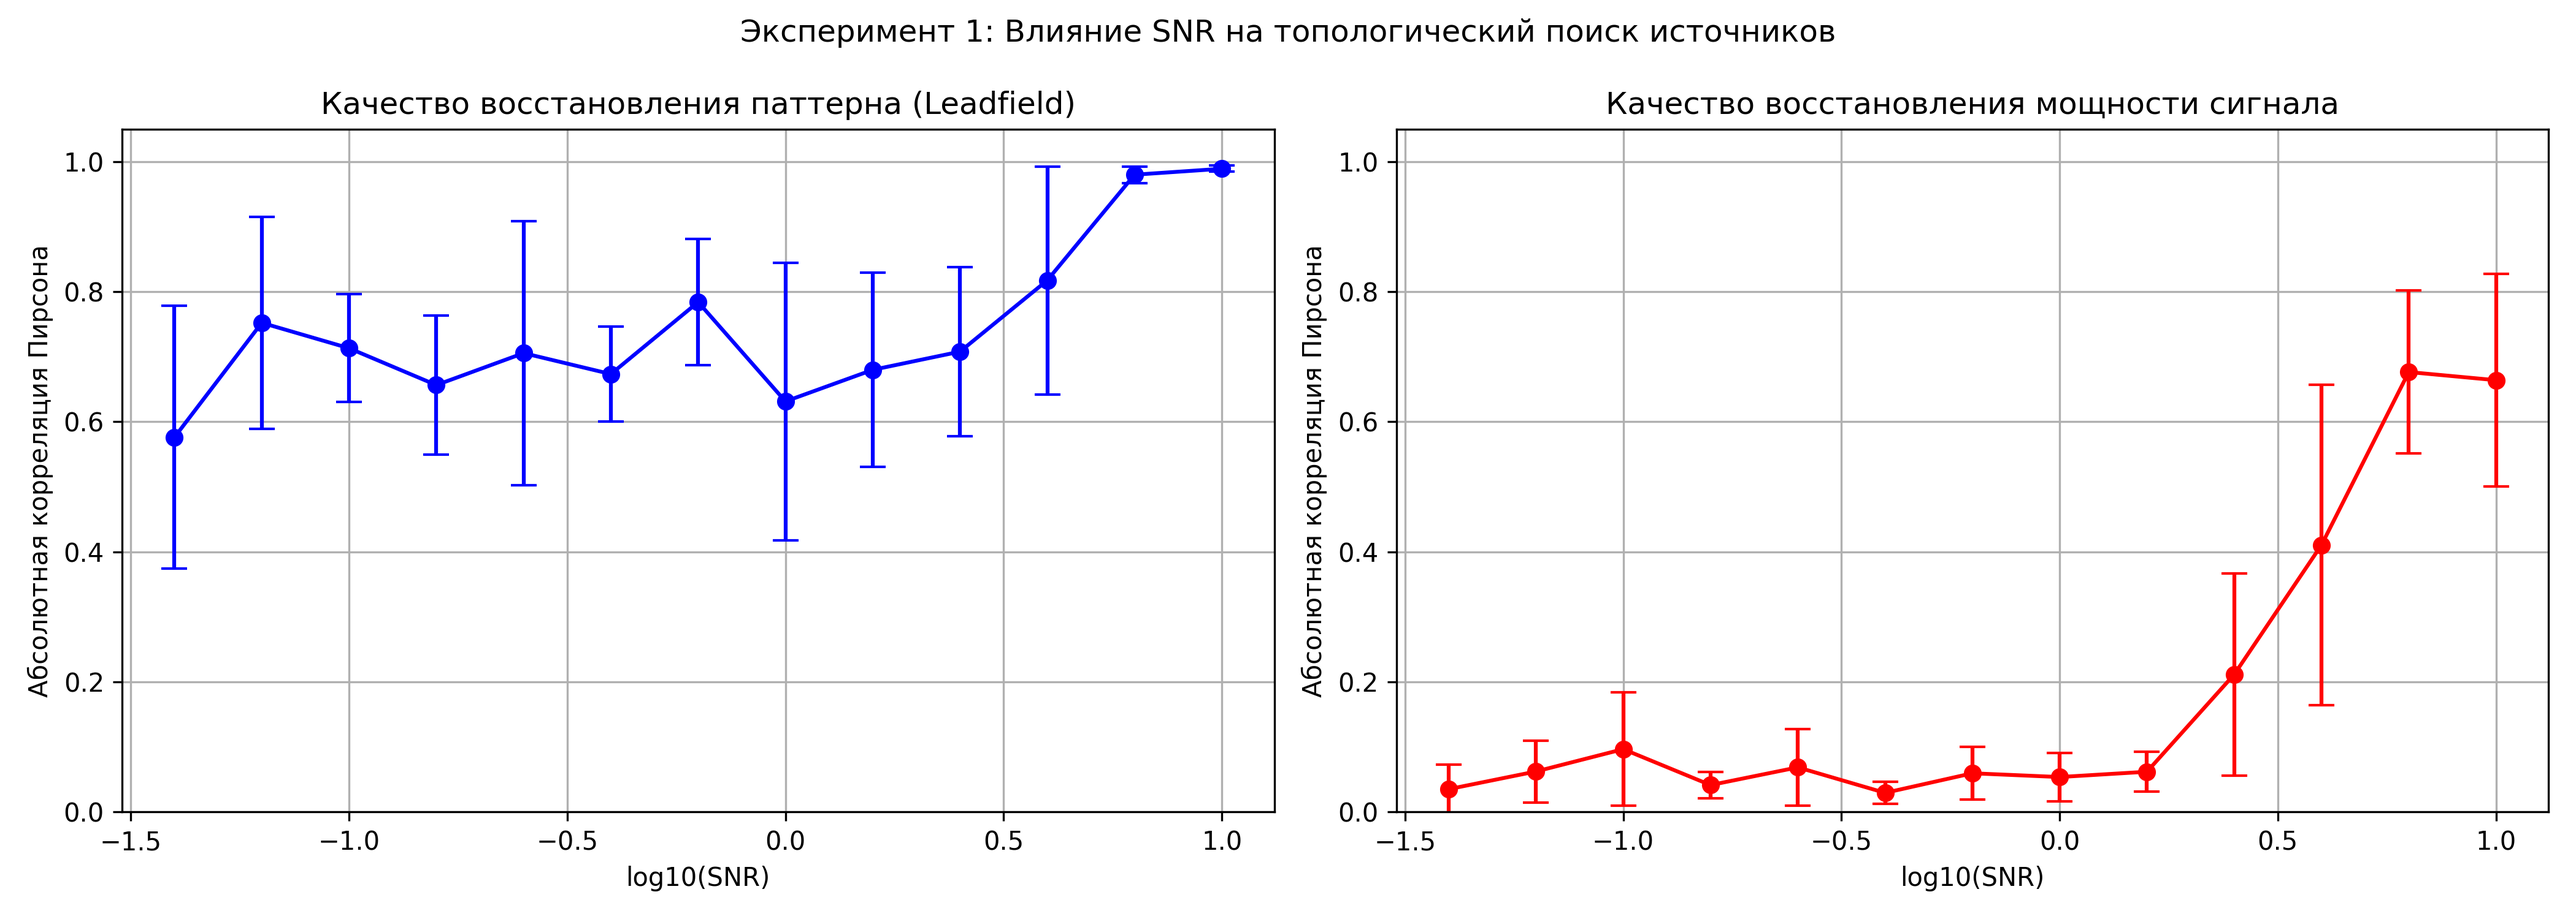
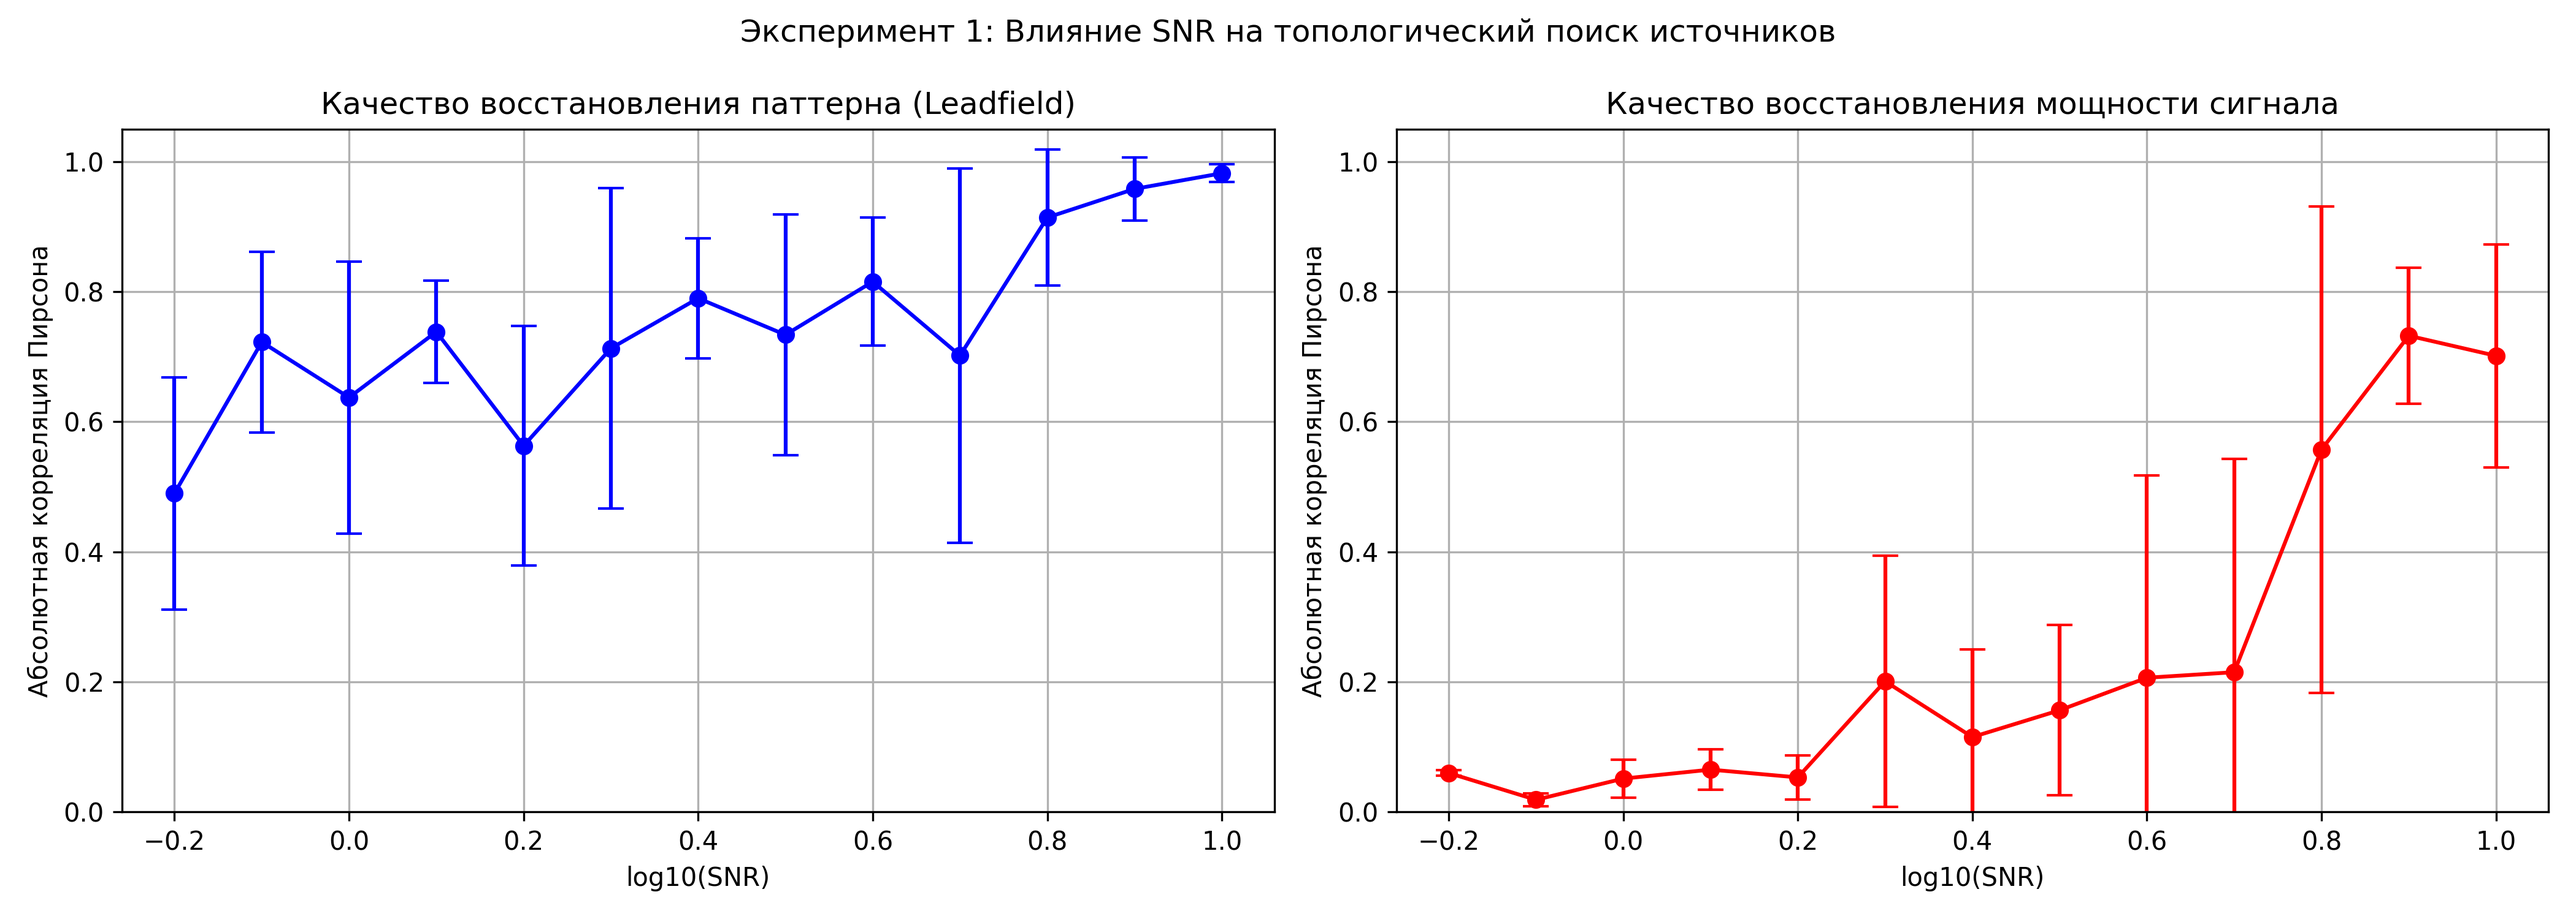
Add ICA baseline and compare to TSF in SNR experiment
Introduce a FastICA baseline to the SNR experiment (exp_snr.py): compute pattern and power correlations for ICA components, aggregate metrics, and plot TSF vs ICA across SNR values. Reorganized imports, added UTF-8 header, removed duplicate sys/os inserts, introduced Ndim variable, and refactored epoch-based true-power computation. Output filename changed to exp1_snr_results_with_ica.png. Also updated the example results image. Enhances benchmarking and visualization of the topological filter against a standard ICA baseline.

diff --git a/examples/meeg_examples/simulations/exp_snr.py b/examples/meeg_examples/simulations/exp_snr.py
@@ -1,7 +1,8 @@
-import os
+# -*- coding: utf-8 -*-
 import sys
-import numpy as np
+import os
 import mne
+import numpy as np
 import matplotlib.pyplot as plt
 from scipy.linalg import null_space
 
@@ -14,8 +15,6 @@ repo_root = os.path.abspath(os.path.join(work_dir, "..", "..", ".."))
 if repo_root not in sys.path:
     sys.path.insert(0, repo_root)
 
-import sys
-import os
 lib_directory = os.path.abspath("C:/Users/ansbel/Documents/GitHub/pyRiemann") 
 if lib_directory not in sys.path:
     sys.path.insert(0, lib_directory)
@@ -30,7 +29,7 @@ def run_snr_experiment():
     """
     Эксперимент 1: Оценка качества восстановления (по паттерну и мощности)
     при различных уровнях отношения сигнал/шум (SNR).
-    Используется метод Монте-Карло для усреднения результатов.
+    Сравнение Topological Spatial Filter (TSF) и FastICA.
     """
     print("Начинаем эксперимент по исследованию влияния SNR...")
 
@@ -51,7 +50,7 @@ def run_snr_experiment():
     gamma = 0.1          # Фиксированный уровень сенсорного шума
 
     # ПАРАМЕТРЫ ЭКСПЕРИМЕНТА
-    snr_logs = np.arange(-0.2, 1.01, 0.1)  # десятичный логарифм SNR от -1.4 до 1.0
+    snr_logs = np.arange(-0.2, 1.01, 0.1)  # десятичный логарифм SNR от -0.2 до 1.0
     n_mc_iterations = 5  # количество итераций Монте-Карло
 
     # Для эпохирования
@@ -59,11 +58,17 @@ def run_snr_experiment():
     Ssize = 0.5
     overlap = Wsize - Ssize
 
-    # Сохранение результатов
+    # Сохранение результатов для TSF (вашего метода)
     mean_pattern_corr = []
     std_pattern_corr = []
     mean_power_corr = []
     std_power_corr = []
+
+    # Сохранение результатов для ICA
+    mean_ica_pattern_corr = []
+    std_ica_pattern_corr = []
+    mean_ica_power_corr = []
+    std_ica_power_corr = []
 
     for snr_log in snr_logs:
         current_snr = 10 ** snr_log
@@ -71,6 +76,9 @@ def run_snr_experiment():
 
         iter_pattern_corrs = []
         iter_power_corrs = []
+        
+        iter_ica_pattern_corrs = []
+        iter_ica_power_corrs = []
 
         for iteration in range(n_mc_iterations):
             print(f"  Итерация {iteration + 1}/{n_mc_iterations}...")
@@ -90,52 +98,15 @@ def run_snr_experiment():
             )
             epochs_data = epochs.get_data(copy=False)
 
-            # Ковариационные матрицы
-            covmats = Covariances(estimator='oas').fit_transform(epochs_data)
-
-            # Расстояния и UMAP топология
-            dist_matrix = pairwise_distance(covmats, metric='riemann')
-
-            # Обучение фильтров (ищем 3D компоненты)
-            w_opt, _, final_losses, _, _ = fit_filters(
-                C=covmats,
-                D_matrix=dist_matrix,
-                N_dim=2,                # Вложение в 3D
-                K_restarts=1,
-                n_neighbors=30,
-                epochs=300,             # Можно уменьшить для скорости, но лучше оставить 300-500
-                lr=0.05,
-                verbose=False
-            )
-
-            w_found_3d = w_opt[0] # Размер (3, N_channels)
-
-            # Находим паттерны для этих трех компонент
-            # a = E[C] * w
-            mean_C = np.mean(covmats, axis=0)
-            patterns_found = []
-            power_found = []
-
-            for d in range(3):
-                w_d = w_found_3d[d, :]
-                a_d = mean_C @ w_d
-                patterns_found.append(a_d)
-
-                # Считаем мощность
-                p_d = np.zeros(covmats.shape[0])
-                for i in range(covmats.shape[0]):
-                    p_d[i] = np.log(w_d.T @ covmats[i] @ w_d)
-                power_found.append(p_d)
-
-            # Истинный паттерн и мощность целевого источника
+            # =================================================================
+            # БАЗОВАЯ ИСТИНА (GROUND TRUTH)
+            # =================================================================
             true_pattern = GA[:, 0]
             true_z = z[0, :]
 
-            # Усреднение истинной мощности (z) по эпохам
             n_epochs_mne = len(epochs)
-            sfreq = info['sfreq']
-            n_samples_window = int(Wsize * sfreq)
-            n_samples_step = int(Ssize * sfreq)
+            n_samples_window = int(Wsize * Fs)
+            n_samples_step = int(Ssize * Fs)
 
             p_true_epochs = np.zeros(n_epochs_mne)
             for i in range(n_epochs_mne):
@@ -143,14 +114,44 @@ def run_snr_experiment():
                 end = start + n_samples_window
                 p_true_epochs[i] = np.mean(true_z[start:end])
 
-            # Находим компоненту с лучшей абсолютной корреляцией паттерна
+
+            # =================================================================
+            # 1. TOPOLOGICAL SPATIAL FILTER (ВАШ МЕТОД)
+            # =================================================================
+            covmats = Covariances(estimator='oas').fit_transform(epochs_data)
+            dist_matrix = pairwise_distance(covmats, metric='riemann')
+
+            Ndim = 2
+            w_opt, _, final_losses, _, _ = fit_filters(
+                C=covmats,
+                D_matrix=dist_matrix,
+                N_dim=Ndim,                
+                K_restarts=1,
+                n_neighbors=30,
+                epochs=300,             
+                lr=0.05,
+                verbose=False
+            )
+
+            w_found_3d = w_opt[0]
+            mean_C = np.mean(covmats, axis=0)
+            patterns_found = []
+            power_found = []
+
+            for d in range(Ndim):
+                w_d = w_found_3d[d, :]
+                patterns_found.append(mean_C @ w_d)
+                
+                p_d = np.zeros(covmats.shape[0])
+                for i in range(covmats.shape[0]):
+                    p_d[i] = np.log(w_d.T @ covmats[i] @ w_d)
+                power_found.append(p_d)
+
             best_pattern_corr = 0
             best_power_corr = 0
 
-            for d in range(3):
-                # Корреляция паттерна
+            for d in range(Ndim):
                 patt_corr = np.abs(np.corrcoef(patterns_found[d], true_pattern)[0, 1])
-                # Корреляция мощности
                 pow_corr = np.abs(np.corrcoef(power_found[d], p_true_epochs)[0, 1])
 
                 if patt_corr > best_pattern_corr:
@@ -160,32 +161,84 @@ def run_snr_experiment():
             iter_pattern_corrs.append(best_pattern_corr)
             iter_power_corrs.append(best_power_corr)
 
+            # =================================================================
+            # 2. ICA BASELINE (ФОНОВОЕ СРАВНЕНИЕ)
+            # =================================================================
+            # Ищем 15 компонент, чтобы не перегружать вычисления, но захватить основную дисперсию
+            ica = mne.preprocessing.ICA(n_components=15, method='fastica', random_state=42)
+            ica.fit(raw, verbose=False)
+            
+            # Матрица смешивания (mixing matrix) содержит пространственные паттерны ICA
+            ica_patterns = ica.get_components() 
+            
+            # Извлекаем временные ряды источников ICA и режем их на эпохи
+            ica_raw = ica.get_sources(raw)
+            ica_epochs = mne.make_fixed_length_epochs(
+                ica_raw, duration=Wsize, overlap=overlap, preload=True, verbose=False
+            )
+            ica_epochs_data = ica_epochs.get_data(copy=False) # Размер: (n_epochs, n_components, n_samples)
+            
+            best_ica_patt_corr = 0
+            best_ica_pow_corr = 0
+
+            for c in range(ica.n_components_):
+                # Корреляция паттерна ICA с истинным Leadfield
+                c_patt_corr = np.abs(np.corrcoef(ica_patterns[:, c], true_pattern)[0, 1])
+                
+                # Считаем логарифм дисперсии (мощность) ICA компоненты в каждом окне
+                c_power = np.log(np.var(ica_epochs_data[:, c, :], axis=1) + 1e-8)
+                c_pow_corr = np.abs(np.corrcoef(c_power, p_true_epochs)[0, 1])
+                
+                # Жадный выбор лучшей компоненты ICA (ориентируемся по паттерну)
+                if c_patt_corr > best_ica_patt_corr:
+                    best_ica_patt_corr = c_patt_corr
+                    best_ica_pow_corr = c_pow_corr
+            
+            iter_ica_pattern_corrs.append(best_ica_patt_corr)
+            iter_ica_power_corrs.append(best_ica_pow_corr)
+
+        # Сохранение агрегированных метрик для TSF
         mean_pattern_corr.append(np.mean(iter_pattern_corrs))
         std_pattern_corr.append(np.std(iter_pattern_corrs))
         mean_power_corr.append(np.mean(iter_power_corrs))
         std_power_corr.append(np.std(iter_power_corrs))
+        
+        # Сохранение агрегированных метрик для ICA
+        mean_ica_pattern_corr.append(np.mean(iter_ica_pattern_corrs))
+        std_ica_pattern_corr.append(np.std(iter_ica_pattern_corrs))
+        mean_ica_power_corr.append(np.mean(iter_ica_power_corrs))
+        std_ica_power_corr.append(np.std(iter_ica_power_corrs))
 
-    # Построение графиков
+
+    # =========================================================================
+    # ПОСТРОЕНИЕ ГРАФИКОВ СО СРАВНЕНИЕМ
+    # =========================================================================
     fig, (ax1, ax2) = plt.subplots(1, 2, figsize=(14, 5))
 
-    ax1.errorbar(snr_logs, mean_pattern_corr, yerr=std_pattern_corr, fmt='-o', capsize=5, color='b')
+    # График 1: Паттерны
+    ax1.errorbar(snr_logs, mean_pattern_corr, yerr=std_pattern_corr, fmt='-o', capsize=5, color='b', label='TSF (Наш метод)')
+    ax1.errorbar(snr_logs, mean_ica_pattern_corr, yerr=std_ica_pattern_corr, fmt='--s', capsize=5, color='g', alpha=0.7, label='FastICA')
     ax1.set_title('Качество восстановления паттерна (Leadfield)')
     ax1.set_xlabel('log10(SNR)')
     ax1.set_ylabel('Абсолютная корреляция Пирсона')
+    ax1.legend()
     ax1.grid(True)
     ax1.set_ylim(0, 1.05)
 
-    ax2.errorbar(snr_logs, mean_power_corr, yerr=std_power_corr, fmt='-o', capsize=5, color='r')
-    ax2.set_title('Качество восстановления мощности сигнала')
+    # График 2: Мощности
+    ax2.errorbar(snr_logs, mean_power_corr, yerr=std_power_corr, fmt='-o', capsize=5, color='r', label='TSF (Наш метод)')
+    ax2.errorbar(snr_logs, mean_ica_power_corr, yerr=std_ica_power_corr, fmt='--s', capsize=5, color='orange', alpha=0.7, label='FastICA')
+    ax2.set_title('Качество восстановления динамики мощности')
     ax2.set_xlabel('log10(SNR)')
     ax2.set_ylabel('Абсолютная корреляция Пирсона')
+    ax2.legend()
     ax2.grid(True)
     ax2.set_ylim(0, 1.05)
 
-    plt.suptitle('Эксперимент 1: Влияние SNR на топологический поиск источников')
+    plt.suptitle('Эксперимент 1: Влияние SNR (Topological Filter vs. ICA)')
     plt.tight_layout()
-    plt.savefig('exp1_snr_results.png', dpi=300)
-    print("Результаты сохранены в exp1_snr_results.png")
+    plt.savefig('exp1_snr_results_with_ica.png', dpi=300)
+    print("Результаты сохранены в exp1_snr_results_with_ica.png")
 
 if __name__ == '__main__':
     run_snr_experiment()
